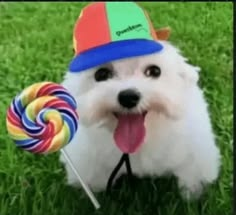
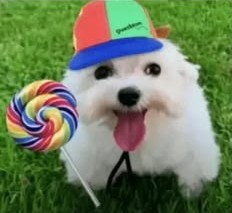
feat: Adiciona elementos de estilização nas seções sobre e projetos

diff --git a/style.css b/style.css
@@ -5,17 +5,17 @@
     --bg-secundario: #ffffff;
 
     --bg-button-primario: #0071E3;
-    --bg-button-primario: transparent;
+    --bg-button-secundario: transparent;
 
     --bg-overlay: #00000087;
 
     --borda-button: 1px solid #0071E3;
 
     --cor-texto-button-primario: #ffffff;
-    --cor-texto-button-primario: #0071E3;
+    --cor-texto-button-secundario: #0071E3;
 
-    --cor-texto-paragrafo: #868686;
-    --cor-texto-titulo: #1c1c1c;
+    --cor-texto-primario: #868686;
+    --cor-texto-secundario: #1c1c1c;
 
     --cor-gradient: linear-gradient(135deg, cyan, violet);
 }
@@ -38,6 +38,14 @@ body {
     font-family: var(--fonte-primaria);
 }
 
+h2 {
+    color: var(--cor-texto-secundario);
+}
+
+p {
+    color: var(--cor-texto-primario);
+}
+
 header,
 header ul {
     display: flex;
@@ -46,14 +54,14 @@ header ul {
 }
 
 header {
-    padding: 1.5rem;
+    padding: .5rem 1rem;
     background-color: var(--bg-secundario);
     position: sticky;
     top: 0;
 }
 
 header h1 a {
-    color: var(--cor-texto-titulo);
+    color: var(--cor-texto-secundario);
     font-size: 1.5rem;
 }
 
@@ -63,7 +71,7 @@ header ul {
 
 header ul li a {
     font-size: 1.125rem;
-    color: var(--cor-texto-paragrafo);
+    color: var(--cor-texto-primario);
     font-weight: 500;
 }
 
@@ -80,11 +88,10 @@ header ul li a {
 
 .hero-section h2 {
     font-size: clamp(3rem, 5vw, 5rem);
-    color: var(--cor-texto-titulo);
     margin-bottom: 1rem;
 }
 
-.hero-section h2 span {
+h2 span {
     background-image: var(--cor-gradient);
     background-clip: text;
     -webkit-background-clip: text;
@@ -92,13 +99,121 @@ header ul li a {
 }
 
 .hero-section p {
-    color: var(--cor-texto-paragrafo);
+    color: var(--cor-texto-primario);
     line-height: 1.5;
     font-size: clamp(1.125rem, 3vw, 1.5rem);
 }
 
+.hero-section ul {
+    margin-top: 1rem;
+    width: 100%;
+    max-width: 37.5rem;
 
+    display: flex;
+    flex-direction: column;
+    gap: 1rem;
+}
 
-img {
-    max-width: 100%;
+.hero-section a {
+    height: 3rem;
+    width: 100%;
+
+    display: flex;
+    align-items: center;
+    justify-content: center;
+
+    border-radius: 3rem;
+}
+
+.hero-section ul li:first-child a {
+    background-color: var(--bg-button-primario);
+    color: var(--cor-texto-button-primario);
+}
+
+.hero-section ul li:last-child a {
+    background-color: var(--bg-button-secundario);
+    border: var(--borda-button);
+    color: var(--cor-texto-button-secundario)
+}
+
+.about-section {
+    background-color: var(--bg-secundario);
+}
+
+.about-section,
+.projetos-section {
+    padding: 6rem 1rem;
+    text-align: center;
+}
+
+.about-section h2,
+.projetos-section h2 {
+    margin-bottom: 1rem;
+    font-size: clamp(2.5rem, 5vw, 3rem);
+}
+
+.about-section p,
+.projetos-section p {
+    margin-bottom: 1rem;
+    font-size: clamp(1.125rem, 3vw, 1.25rem);
+    line-height: 1.5;
+}
+
+.about-section img {
+    width: 100%;
+    height: 30rem;
+    object-fit: cover;
+    border-radius: 1.5rem;
+}
+
+.projetos-section li {
+    margin-bottom: 1rem;
+
+    border-radius: 2rem;
+    height: 25rem;
+    overflow: hidden;
+    background-size: cover;
+    background-position: center;
+}
+
+.projetos-section li:first-child {
+    background-image: url("/images/cachorro-1.jpg");
+}
+
+.projetos-section li:nth-child(2) {
+    background-image: url("/images/cachorro-2.jpg");
+}
+
+.projetos-section li:nth-child(3) {
+    background-image: url("/images/cachorro-3.jpg");
+}
+
+.projetos-section article {
+    background-color: var(--bg-overlay);
+    height: 100%;
+    padding: 1rem;
+    display: flex;
+    align-items: end;
+}
+
+.projetos-section article h3 {
+    font-size: 1.5rem;
+    color: #ffffff;
+}
+
+.projetos-section article p {
+    color: #ffffffde;
+}
+
+.projetos-section article a {
+    background-color: var(--bg-button-primario);
+    color: var(--cor-texto-button-primario);
+    height: 3rem;
+    width: 100%;
+
+    display: flex;
+    align-items: center;
+    justify-content: center;
+
+    border-radius: 1.5rem;
 }
